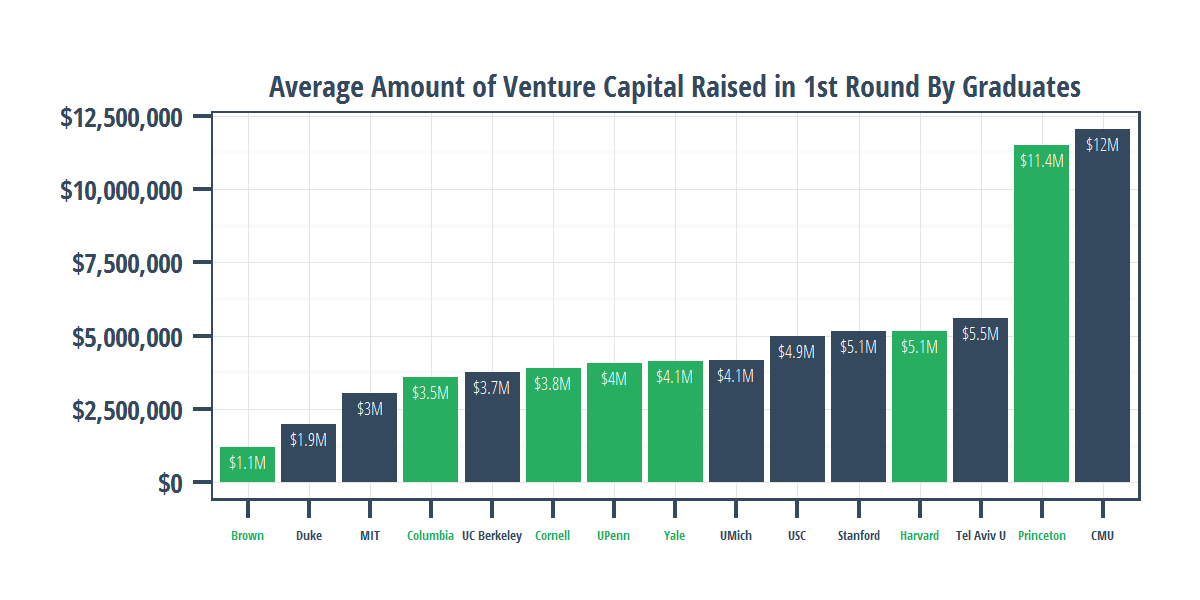
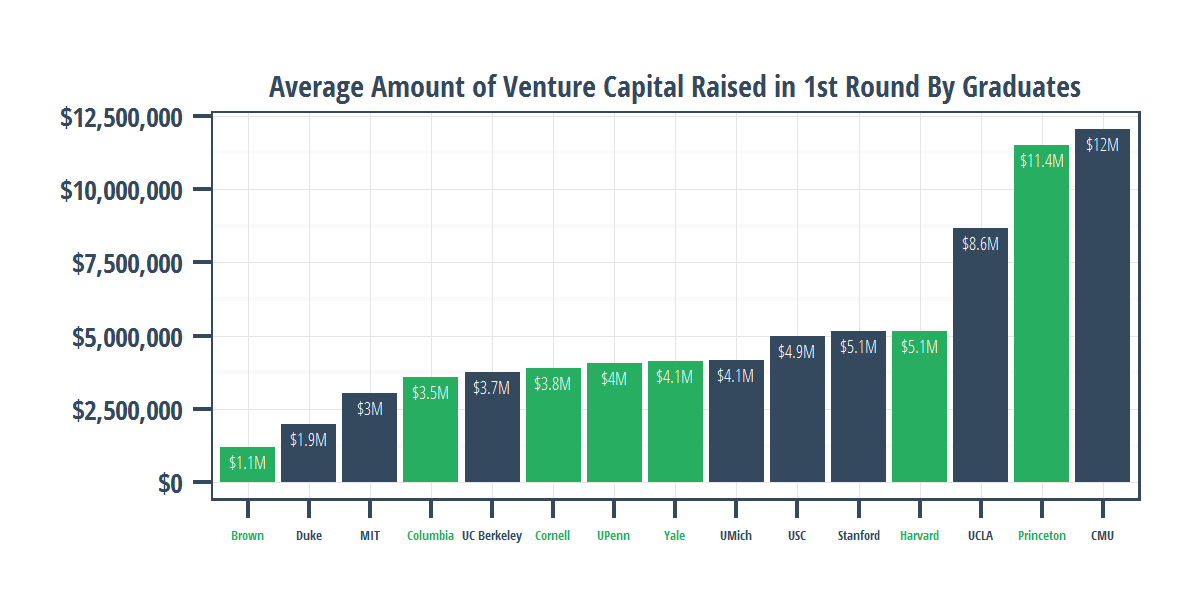
Site updated at 2013-07-20 20:07:14 UTC

Changed region(s): [[0.7708, 0.36, 0.8633, 0.57], [0.8017, 0.87, 0.8325, 0.9]]

diff --git a/2013/07/alma-mater-data/index.html b/2013/07/alma-mater-data/index.html
@@ -252,7 +252,7 @@
 
 <p>Seven out of the eight Ivy League Universities (colored green on the chart) are present, but most of the Ivies are  in the middle of the chart. MIT and UC Berkeley each have nearly <em>double</em> the amount of successful graduates from Yale and Columbia.</p>
 
-<p>It&rsquo;s worth noting that Tel Aviv University, an Israeli university, is present on the chart.</p>
+<p>It&rsquo;s worth noting that Tel Aviv University, an Israeli university, ties Duke University at 21 and unfortunately just missed making the chart.</p>
 
 <h1>Which university&rsquo;s graduates have cumulatively raised the most amount of total funding?</h1>
 
@@ -272,9 +272,11 @@
 
 <p><img src="/img/avg-first-raised.png"></p>
 
-<p>Carnegie Mellon and Princeton, which had a relatively low number of funded founders and a relatively low number of total capital raised, instead have a <em>significantly</em> higher amount of average first funding. Tel Aviv University also placed higher than almost all US colleges. Perhaps the students from these three universities tend to have more ambitious startup ideas?</p>
+<p>Carnegie Mellon and Princeton, which had a relatively low number of funded founders and a relatively low number of total capital raised, instead have a <em>significantly</em> higher amount of average first funding. UCLA also placed. Perhaps the students from these three universities tend to have more ambitious startup ideas?</p>
 
 <p>At first glance, Stanford and Harvard appear to be the kings of startups. They have the most amount of graduates, and the most amount of total venture capital raised. The tech blogs would surely consider that a success, but could the greater funding for CMU/Princeton lead to the creation of the next billion-dollar startup? We can only wait and see.</p>
+
+<p><em>UPDATE: As pointed out by robotcookies on the <a href="https://news.ycombinator.com/item?id=6075862">corresponding Hacker News thread</a>, I missed UCLA in the first draft, which had 29 funded graduates. The charts have been updated.</em></p>
 
 <hr />
 

diff --git a/contact/index.html b/contact/index.html
@@ -198,7 +198,7 @@
     
   </header>
   
-  <p>You can contact through any of the following channels, although e-mail at <a href="&#x6d;&#x61;&#105;&#x6c;&#x74;&#x6f;&#58;&#109;&#x61;&#120;&#64;&#109;&#105;&#x6e;&#105;&#109;&#x61;&#x78;&#x69;&#114;&#46;&#x63;&#111;&#x6d;">&#x6d;&#97;&#x78;&#x40;&#109;&#x69;&#x6e;&#x69;&#x6d;&#97;&#x78;&#105;&#114;&#46;&#x63;&#x6f;&#109;</a> is preferred. Following me on Facebook and Twitter certainly doesn&rsquo;t hurt either. ;)</p>
+  <p>You can contact through any of the following channels, although e-mail at <a href="&#x6d;&#x61;&#x69;&#108;&#x74;&#x6f;&#x3a;&#x6d;&#x61;&#x78;&#64;&#109;&#x69;&#x6e;&#x69;&#x6d;&#97;&#x78;&#x69;&#114;&#46;&#x63;&#111;&#x6d;">&#109;&#x61;&#120;&#x40;&#x6d;&#x69;&#110;&#x69;&#109;&#97;&#120;&#x69;&#x72;&#46;&#99;&#x6f;&#109;</a> is preferred. Following me on Facebook and Twitter certainly doesn&rsquo;t hurt either. ;)</p>
 
 <hr />
 
